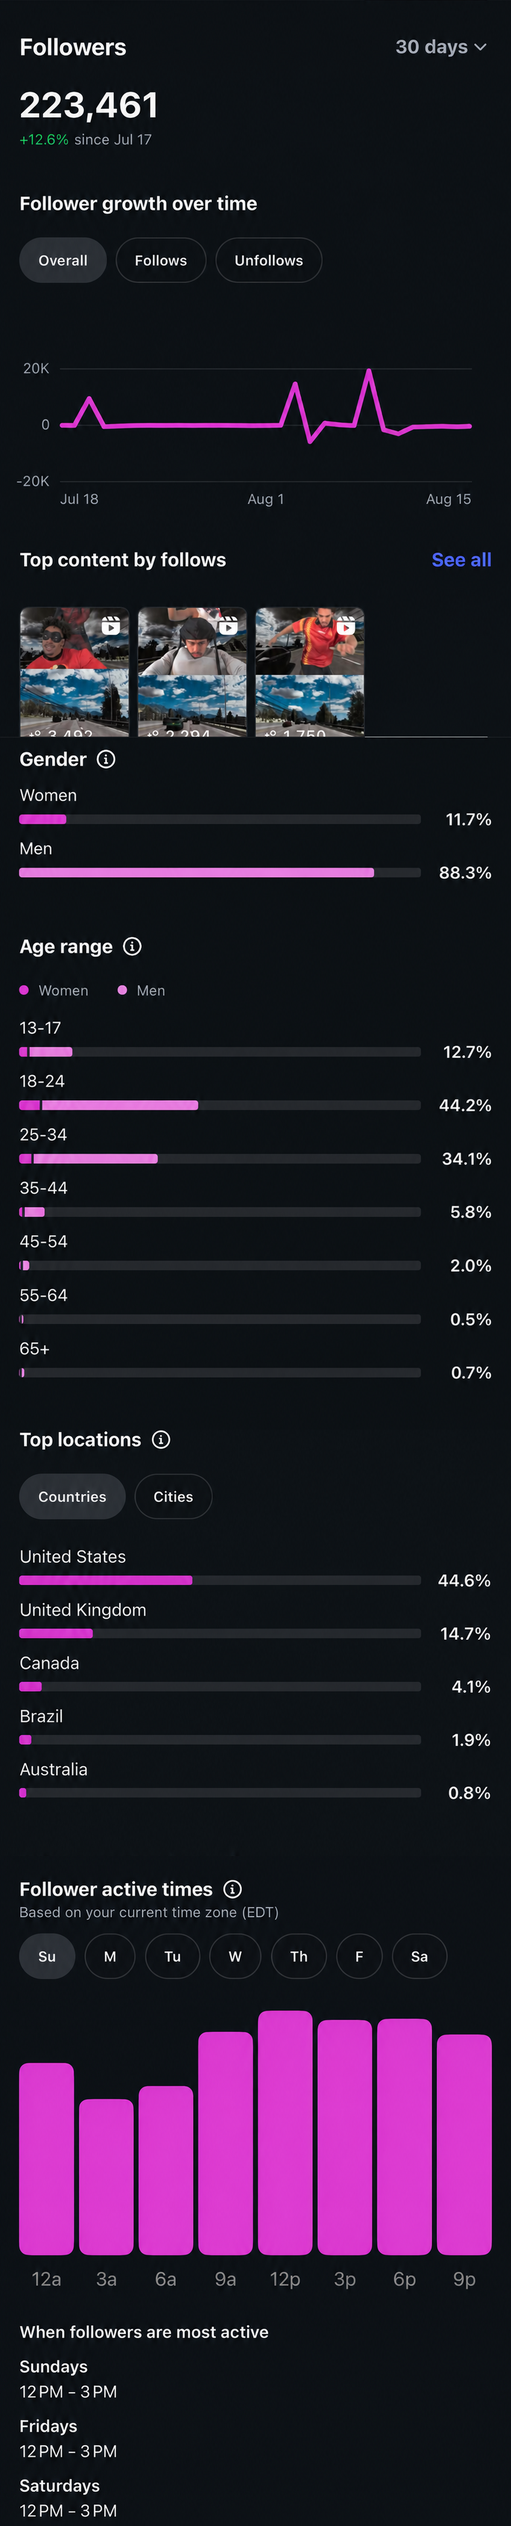
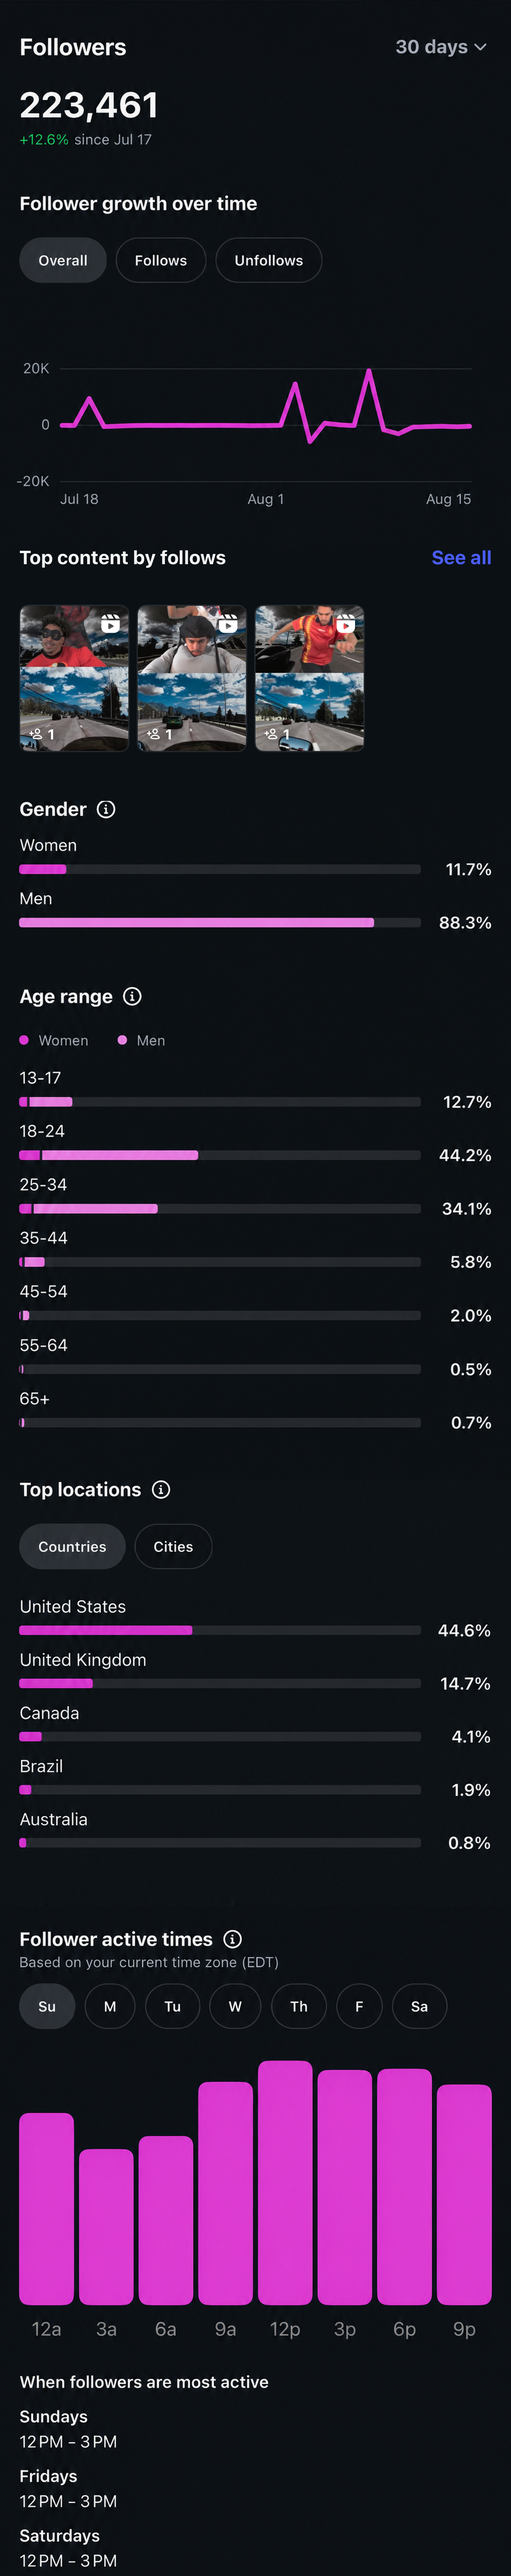
Pin Insights tabs while scrolling and replace the clipped Audience Follows row.

diff --git a/new.html b/new.html
@@ -11,14 +11,14 @@
 <meta name="mobile-web-app-capable" content="yes">
 <meta name="apple-mobile-web-app-status-bar-style" content="black-translucent">
 <meta name="theme-color" content="#000000">
-<link rel="manifest" href="manifest_new.json?v=50">
-<link rel="apple-touch-icon" href="icon.png?v=50">
+<link rel="manifest" href="manifest_new.json?v=51">
+<link rel="apple-touch-icon" href="icon.png?v=51">
 <!-- native iOS launch images: iOS shows these INSTANTLY on tap (before our HTML
      loads), killing the system gray phase. Pixel-identical to the in-page splash. -->
-<link rel="apple-touch-startup-image" media="screen and (device-width: 430px) and (device-height: 932px) and (-webkit-device-pixel-ratio: 3) and (orientation: portrait)" href="launch_1290x2796.png?v=50">
-<link rel="apple-touch-startup-image" media="screen and (device-width: 393px) and (device-height: 852px) and (-webkit-device-pixel-ratio: 3) and (orientation: portrait)" href="launch_1179x2556.png?v=50">
+<link rel="apple-touch-startup-image" media="screen and (device-width: 430px) and (device-height: 932px) and (-webkit-device-pixel-ratio: 3) and (orientation: portrait)" href="launch_1290x2796.png?v=51">
+<link rel="apple-touch-startup-image" media="screen and (device-width: 393px) and (device-height: 852px) and (-webkit-device-pixel-ratio: 3) and (orientation: portrait)" href="launch_1179x2556.png?v=51">
 <title>Instagram</title>
-<script src="config.js?v=50"></script>
+<script src="config.js?v=51"></script>
 <script>
 if('serviceWorker' in navigator){
   navigator.serviceWorker.register('sw.js',{updateViaCache:'none'}).then(r=>r.update());
@@ -61,7 +61,7 @@ if('serviceWorker' in navigator){
   #profileStats img{position:absolute;-webkit-user-drag:none;}
 
   /* insights: header + content stacked; the whole screen scrolls naturally */
-  #insHeader{position:relative;width:100%;z-index:5;}
+  #insHeader{position:sticky;top:0;z-index:10;background:#0d1115;}
   #insHeader img.insTabImg{display:none;width:100%;}
   #insHeader img.insTabImg.on{display:block;}
   #insContent{position:relative;width:100%;background:#0d1115;}
@@ -78,14 +78,14 @@ if('serviceWorker' in navigator){
   /* interactions: pinned header (safe-area padding, tiled real-bg strip - the /new1
      pattern) + stitched content + swipe-snap Audience carousel */
   #intHdr{position:sticky;top:0;z-index:10;padding-top:env(safe-area-inset-top,0px);
-          background:#0c1115 url(screens/n_int_hdr_bg.png?v=50) repeat-y;background-size:100% 3px;}
+          background:#0c1115 url(screens/n_int_hdr_bg.png?v=51) repeat-y;background-size:100% 3px;}
   #intHdr img{display:block;width:100%;}
   /* carousel: two snap stops (Top cities at 0, Top countries at D=1066/1290 of the
      viewport). Drag and release -> the card settles into place; ends clamp. */
   #audSnap{width:100%;overflow-x:auto;overflow-y:hidden;scroll-snap-type:x mandatory;
            -webkit-overflow-scrolling:touch;background:#0c1115;}
   #audTrack{width:182.6357%;display:flex;aspect-ratio:2356/685;
-            background:url(screens/n_aud_strip.png?v=50) no-repeat;background-size:100% 100%;}
+            background:url(screens/n_aud_strip.png?v=51) no-repeat;background-size:100% 100%;}
   #audTrack .sA{width:45.2462%;scroll-snap-align:start;}
   #audTrack .sB{width:54.7538%;scroll-snap-align:start;}
 </style>
@@ -97,7 +97,7 @@ if('serviceWorker' in navigator){
     <!-- HOME -->
     <div class="screen active" id="s-home">
       <div class="sheet">
-        <img src="screens/n_home.png?v=50">
+        <img src="screens/n_home.png?v=51">
         <div class="hot" style="left:80%;top:89%;width:20%;height:9%" onclick="goProfile()"></div>
       </div>
     </div>
@@ -105,7 +105,7 @@ if('serviceWorker' in navigator){
     <!-- PROFILE -->
     <div class="screen navpad" id="s-profile">
       <div class="sheet">
-        <img src="screens/n_profile.png?v=50">
+        <img src="screens/n_profile.png?v=51">
         <div class="hot" style="left:3%;top:36%;width:94%;height:7%" onclick="goDashboard()"></div>
       </div>
     </div>
@@ -113,7 +113,7 @@ if('serviceWorker' in navigator){
     <!-- DASHBOARD -->
     <div class="screen" id="s-dashboard">
       <div class="sheet">
-        <img id="dashImg" src="screens/n_dash.png?v=50">
+        <img id="dashImg" src="screens/n_dash.png?v=51">
         <!-- Views row -> insights. This capture has no Interactions row
              (Views / New followers / Content). Extra rows stay unwired. -->
         <div class="hot" style="left:0;top:17.8%;width:100%;height:4.8%" onclick="goInsights()"></div>
@@ -123,11 +123,11 @@ if('serviceWorker' in navigator){
     <!-- INTERACTIONS -->
     <div class="screen navpad" id="s-interactions">
       <div id="intHdr">
-        <img src="screens/n_int_header.png?v=50">
+        <img src="screens/n_int_header.png?v=51">
         <div class="hot" style="left:0;top:0;width:16%;height:58%" onclick="goBackDash()"></div>
       </div>
       <div class="sheet">
-        <img src="screens/n_int_top.png?v=50">
+        <img src="screens/n_int_top.png?v=51">
       </div>
       <div id="audSnap">
         <div id="audTrack"><div class="sA"></div><div class="sB"></div></div>
@@ -138,17 +138,17 @@ if('serviceWorker' in navigator){
     <!-- INSIGHTS -->
     <div class="screen" id="s-insights">
       <div id="insHeader">
-        <img id="h-overview" class="insTabImg on" src="insights_overview_header2.png?v=50">
+        <img id="h-overview" class="insTabImg on" src="insights_overview_header2.png?v=51">
         <img id="h-audience" class="insTabImg" alt="">
         <div class="hot" style="left:0;top:65%;width:33.3%;height:35%" onclick="insTab('overview')"></div>
         <div class="hot" style="left:66.7%;top:65%;width:33.3%;height:35%" onclick="insTab('audience')"></div>
       </div>
       <div id="insContent">
-        <img id="c-overview" class="insTabImg on" src="insights_overview_full.png?v=50">
+        <img id="c-overview" class="insTabImg on" src="insights_overview_full.png?v=51">
         <img id="c-audience" class="insTabImg" alt="">
         <div id="viewsGraph"></div>
       </div>
-      <div id="insLoading"><img id="loadImg" src="screens/ins_spinner_c.png?v=50"></div>
+      <div id="insLoading"><img id="loadImg" src="screens/ins_spinner_c.png?v=51"></div>
     </div>
 
   </div>
@@ -218,7 +218,7 @@ if('serviceWorker' in navigator){
     document.body.style.background = '#0d1115';
   });
 
-  const ASSET_V = '?v=50';   // bump when any screen image changes (cache-bust mobile)
+  const ASSET_V = '?v=51';   // bump when any screen image changes (cache-bust mobile)
   const el = id => document.getElementById(id);
   // Flow-model navigation: exactly one screen is .active (in normal flow, so it sets
   // the document height and iOS places the safe areas naturally). Transitions overlay

diff --git a/sw.js b/sw.js
@@ -4,7 +4,7 @@
 // background. If the background refresh finds a NEW app shell, clients are notified
 // so they can silently reload while the splash still covers the screen.
 // Bump CACHE on each deploy; activate purges older caches.
-const CACHE = 'ig-v50';
+const CACHE = 'ig-v51';
 
 self.addEventListener('install', () => self.skipWaiting());
 

diff --git a/screens/CROP.md b/screens/CROP.md
@@ -29,7 +29,7 @@ After swapping images, bump `?v=` in `new.html` and `CACHE` in `sw.js`.
 
 Dashboard **Views** opens Insights (`goInsights()`). Tabs swap header+body PNGs. Keep the live Overview SVG (`#viewsGraph`); punch a hole in the Overview body so the baked-in line is gone. Do not edit the Audience growth graph.
 
-Sources are scaled to width **1290** (folder shots are not always 1290×2796). Filename order is scroll order: `overview1` top → `overview3` bottom, `audience1` top → `audience4` bottom. Paint the top **177 px** of each shot before cropping. Overview also uses a later full-frame shot of Views by content type (folder `(5)`, `CCAFA001-…png`) so those four rows are not split across `overview1`/`overview2`.
+Sources are scaled to width **1290** (folder shots are not always 1290×2796). Filename order is scroll order: `overview1` top → `overview3` bottom, `audience1` top → `audience4` bottom. Paint the top **177 px** of each shot before cropping. Overview also uses a later full-frame shot of Views by content type (folder `(5)`, `CCAFA001-…png`) so those four rows are not split across `overview1`/`overview2`. Audience Follows tiles come from folder `(7)` `IMG_0988.PNG`. The Insights header (`#insHeader`) is `position: sticky; top: 0` so Overview/Audience tabs stay on screen; do not add extra safe-area padding (status gap is already painted into the header PNGs).
 
 ### Overview
 
@@ -45,8 +45,9 @@ Sources are scaled to width **1290** (folder shots are not always 1290×2796). F
 
 1. Header is `audience1`, `y = 0 … 462` (through the Audience tab underline) → `insights_audience_header2.png`.
 2. Body:
-   - `audience1` `y = 462 … 2320` (through top content by follows)
-   - `audience2` `y = 462 … 2210` (Gender + age, stop before Top locations)
+   - `audience1` `y = 462 … 1850` (through follower growth; that shot clips the Follows thumbnail row)
+   - `IMG_0988.PNG` (folder `(7)`) `y = 1180 … 1812` (Top content by follows, full tiles, stop before Gender)
+   - `audience2` `y = 498 … 2210` (Gender + age, stop before Top locations)
    - `audience3` `y = 500 … 1575` (Top locations / countries)
    - `audience4` `y = 1020 … content end` (Follower active times)
-   → `insights_audience_full.png` (1290×6371)
+   → `insights_audience_full.png` (1290×6497)
